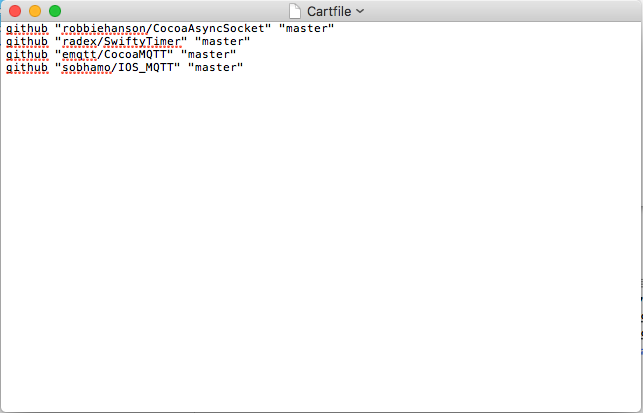
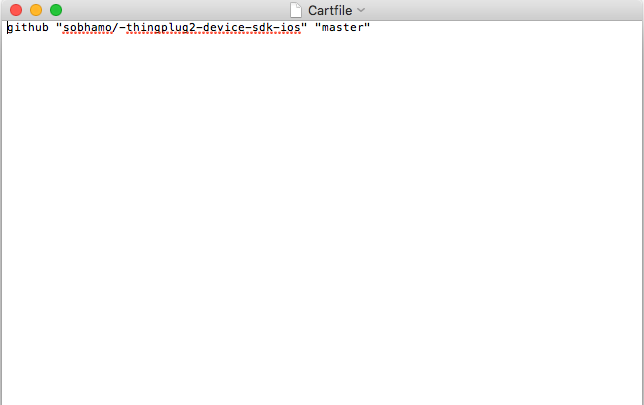
이미지 파일 업데이트

diff --git a/README.md b/README.md
@@ -26,11 +26,12 @@ ThingPlug Simple framework는 소스코드 형태로 제공되며 Application에
 ### Carthage 설치 및 framework 업데이트 
 Simple framework는 framework의 원할한 업데이트 적용 및 import 편의를 위하여 [Carthage](https://github.com/Carthage/Carthage)를 사용합니다.
 
-1. Carthage 설치 후 신규 Project 폴더에 Cartfile을 생성하고 아래 4개의 git 저장소 주소를 추가 후 저장합니다.
+1. Carthage 설치 후 신규 Project 폴더에 Cartfile을 생성하고 아래 1개의 git 저장소 주소를 추가 후 저장합니다.
 ```
 github "sobhamo/-thingplug2-device-sdk-ios" "master"
-
 ```
+
+<img src="images/cartfile.png"/>
 
 2. 터미널에서 Project 폴더로 이동 후 Carthage update 명령어를 입력합니다.
 "carthage update --platform iOS" 후 ENTER
